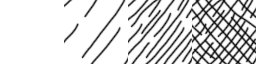
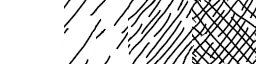
Sketch effect overall polish

Changed region(s): [[0.25, 0.0, 1.0, 1.0], [0.25, 0.0, 0.4375, 0.6875], [0.4688, 0.875, 0.5312, 1.0]]

diff --git a/Assets/PostProcessingEffects/Sketch/Sketch.cs b/Assets/PostProcessingEffects/Sketch/Sketch.cs
@@ -24,8 +24,6 @@ namespace RSPostProcessing
         private int _outlineThickness = 3;
         [SerializeField]
         private Color _outlineColor = Color.black;
-
-        [Header("SKETCH EFFECT")]
         [SerializeField, Min(1)]
         private int _posterization = 8;
         [SerializeField]
@@ -35,17 +33,16 @@ namespace RSPostProcessing
         [SerializeField]
         private Texture2D _distortionNoise = null;
         [SerializeField]
-        private Vector4 _distortionNoiseST = Vector4.zero;
-        [SerializeField]
-        private float _distortionIntensity = 1f;
+        private Vector2 _distortionScale = Vector2.one;
+        [SerializeField, Range(0f, 0.01f)]
+        private float _distortionIntensity = 0.005f;
         
-        [Header("DEPTH")]
+        [Header("OUTLINE")]
         [SerializeField]
         private float _outlineDepthMultiplier = 1f;
         [SerializeField]
         private float _outlineDepthBias = 1f;
-        
-        [Header("NORMAL")]
+        [Space(10f)]
         [SerializeField]
         private float _outlineNormalMultiplier = 1f;
         [SerializeField]
@@ -57,10 +54,10 @@ namespace RSPostProcessing
         {
             material.SetTexture(CROSSHATCHES_ID, _crosshatches);
             material.SetTexture(MAIN_TEX_DISTORTION_ID, _distortionNoise);
-            material.SetVector(MAIN_TEX_DISTORTION_ST_ID, _distortionNoiseST);
+            material.SetVector(MAIN_TEX_DISTORTION_ST_ID, new Vector4(_distortionScale.x, _distortionScale.y, 0f, 0f));
             material.SetFloat(MAIN_TEX_DISTORTION_INTENSITY_ID, _distortionIntensity);
             material.SetFloat(POSTERIZATION_ID, _posterization);
-            material.SetFloat(OUTLINE_THICKNESS_ID, _outlineThickness);
+            material.SetFloat(OUTLINE_THICKNESS_ID, Mathf.RoundToInt(_outlineThickness * (Screen.width / 1080f)));
             material.SetColor(OUTLINE_COLOR_ID, _outlineColor);
             material.SetFloat(OUTLINE_DEPTH_MULTIPLIER_ID, _outlineDepthMultiplier);
             material.SetFloat(OUTLINE_DEPTH_BIAS_ID, _outlineDepthBias);
